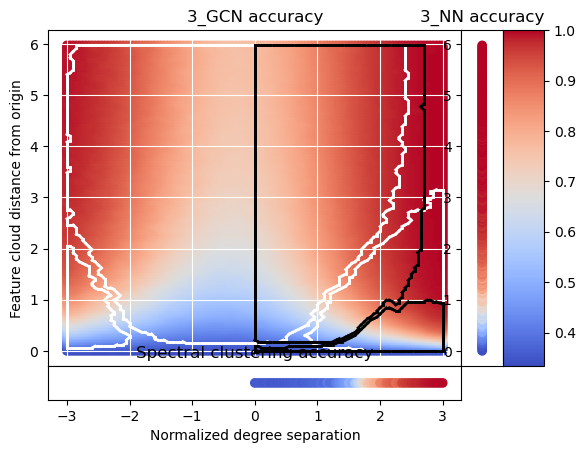
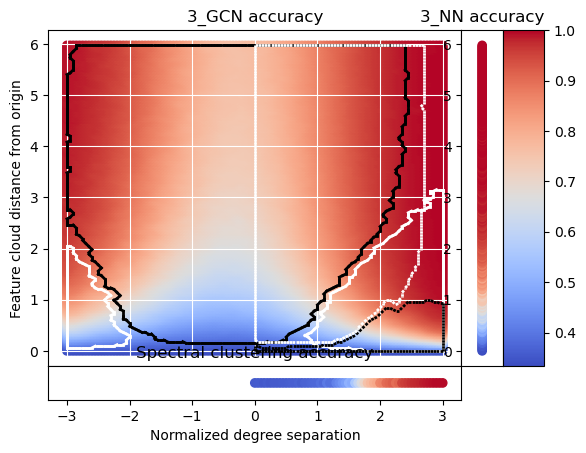
made areas more defined

diff --git a/tests/master_plot.py b/tests/master_plot.py
@@ -125,7 +125,7 @@ points = np.vstack([xpoints,ypoints]).T
 if len(points )> 4:
     edges = alpha_shape(points,0.05)
     for a,(i,j) in enumerate(edges):
-        ax_main.plot(points[[i, j], 0], points[[i, j], 1],"w",linewidth=2)
+        ax_main.plot(points[[i, j], 0], points[[i, j], 1],"k",linewidth=2)
 idx = compare_NN > improvement_threshold
 xpoints=x[idx]
 ypoints=y[idx]
@@ -149,14 +149,14 @@ ypoints=new_y[idx]
 points = np.vstack([xpoints,ypoints]).T
 edges = alpha_shape(points,0.05)
 for a,(i,j) in enumerate(edges):
-    ax_main.plot(points[[i, j], 0], points[[i, j], 1],"k",linewidth=2)
+    ax_main.plot(points[[i, j], 0], points[[i, j], 1],"k",linewidth=2,linestyle=(0, (1, 10)))
 idx = compare_Spectral > improvement_threshold
 xpoints=new_x[idx]
 ypoints=new_y[idx]
 points = np.vstack([xpoints,ypoints]).T
 edges = alpha_shape(points,0.05)
 for a,(i,j) in enumerate(edges):
-    ax_main.plot(points[[i, j], 0], points[[i, j], 1],"k",linewidth=2)
+    ax_main.plot(points[[i, j], 0], points[[i, j], 1],"w",linewidth=2,linestyle=(0, (1, 10)))
 
 # this makes it look prettier
 
